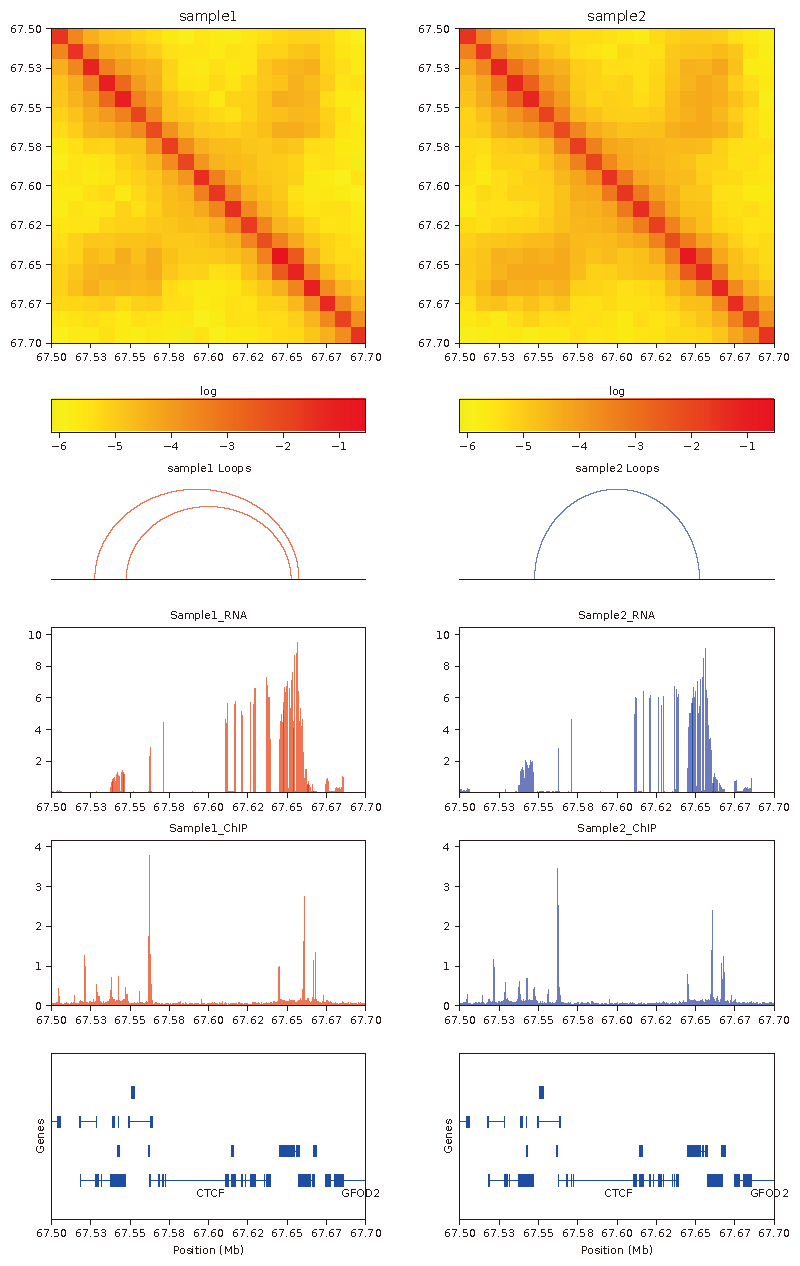
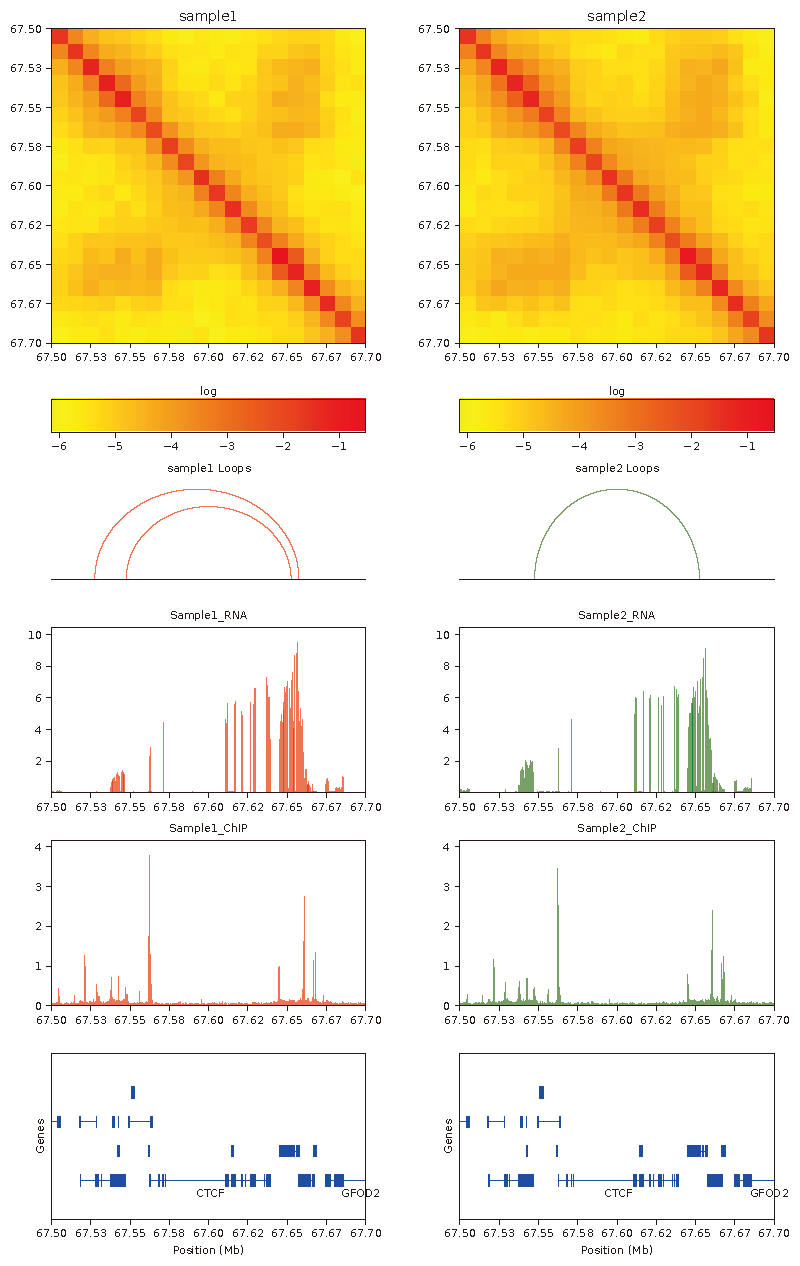
11/21/2024

diff --git a/HiCPlot/SquHeatmap.py b/HiCPlot/SquHeatmap.py
@@ -270,7 +270,7 @@ def plot_bed(ax, bed_file, region, color='green', linewidth=1):
     ax.set_ylim(0, 1)
     ax.axis('off')  # Hide axis for BED tracks
 
-def pcolormesh_square(ax, matrix, start, end, cmap='bwr', vmin=None, vmax=None, *args, **kwargs):
+def pcolormesh_square(ax, matrix, start, end, cmap='autumn_r', vmin=None, vmax=None, *args, **kwargs):
     """
     Plot the difference matrix as a heatmap on the given axis.
     """
@@ -361,7 +361,7 @@ def plot_loops(ax, loop_file, region, color='purple', alpha=0.5, linewidth=1, la
     if label:
         ax.set_title(label, fontsize=8)  # Add sample name above the loop track
 
-def plot_heatmaps(cooler_file1, sampleid1,
+def plot_heatmaps(cooler_file1, sampleid1=None,
                  bigwig_files_sample1=[], bigwig_labels_sample1=[], colors_sample1="red",
                  bed_files_sample1=[], bed_labels_sample1=[],
                  loop_file_sample1=None, loop_file_sample2=None,
@@ -450,7 +450,11 @@ def plot_heatmaps(cooler_file1, sampleid1,
 
     # Set up the figure based on layout
     if layout == 'horizontal':
-        ncols = 1 if single_sample else 2
+        if cooler_file2:
+            ncols = 2
+        else:
+            ncols = 1
+        print(ncols)
         num_genes = 1 if gtf_file else 0
         # Calculate the number of BigWig and BED tracks per sample
         max_num_bigwig_files = max(len(bigwig_files_sample1), len(bigwig_files_sample2))
@@ -528,7 +532,7 @@ def plot_heatmaps(cooler_file1, sampleid1,
             ax_loop1 = f.add_subplot(gs[current_row, 0])
             plot_loops(ax_loop1, loop_file_sample1, region, color=colors_sample1, alpha=0.7, linewidth=1, label=f"{sampleid1} Loops")
             current_row += 1
-        if not single_sample and loop_file_sample2:
+        if loop_file_sample2:
             current_row = 2
             ax_loop2 = f.add_subplot(gs[current_row, 1])
             plot_loops(ax_loop2, loop_file_sample2, region, color=colors_sample2, alpha=0.7, linewidth=1, label=f"{sampleid2} Loops")
@@ -788,6 +792,7 @@ def main():
         bigwig_files_sample1=args.bigwig_files_sample1,
         bigwig_labels_sample1=args.bigwig_labels_sample1,
         colors_sample1=args.colors_sample1,
+        colors_sample2=args.colors_sample2,
         bed_files_sample1=args.bed_files_sample1,
         bed_labels_sample1=args.bed_labels_sample1,
         loop_file_sample1=args.loop_file_sample1,

diff --git a/HiCPlot/_version.py b/HiCPlot/_version.py
@@ -1,1 +1,1 @@
-__version__="1.14"
+__version__="1.15"

diff --git a/README.md b/README.md
@@ -155,7 +155,7 @@ matplotlib
 pyBigWig  
 pyranges  
 
-#### pip install HiCPlot==1.14
-https://pypi.org/project/HiCPlot/1.14/  
+#### pip install HiCPlot==1.15
+https://pypi.org/project/HiCPlot/1.15/  
 
 
